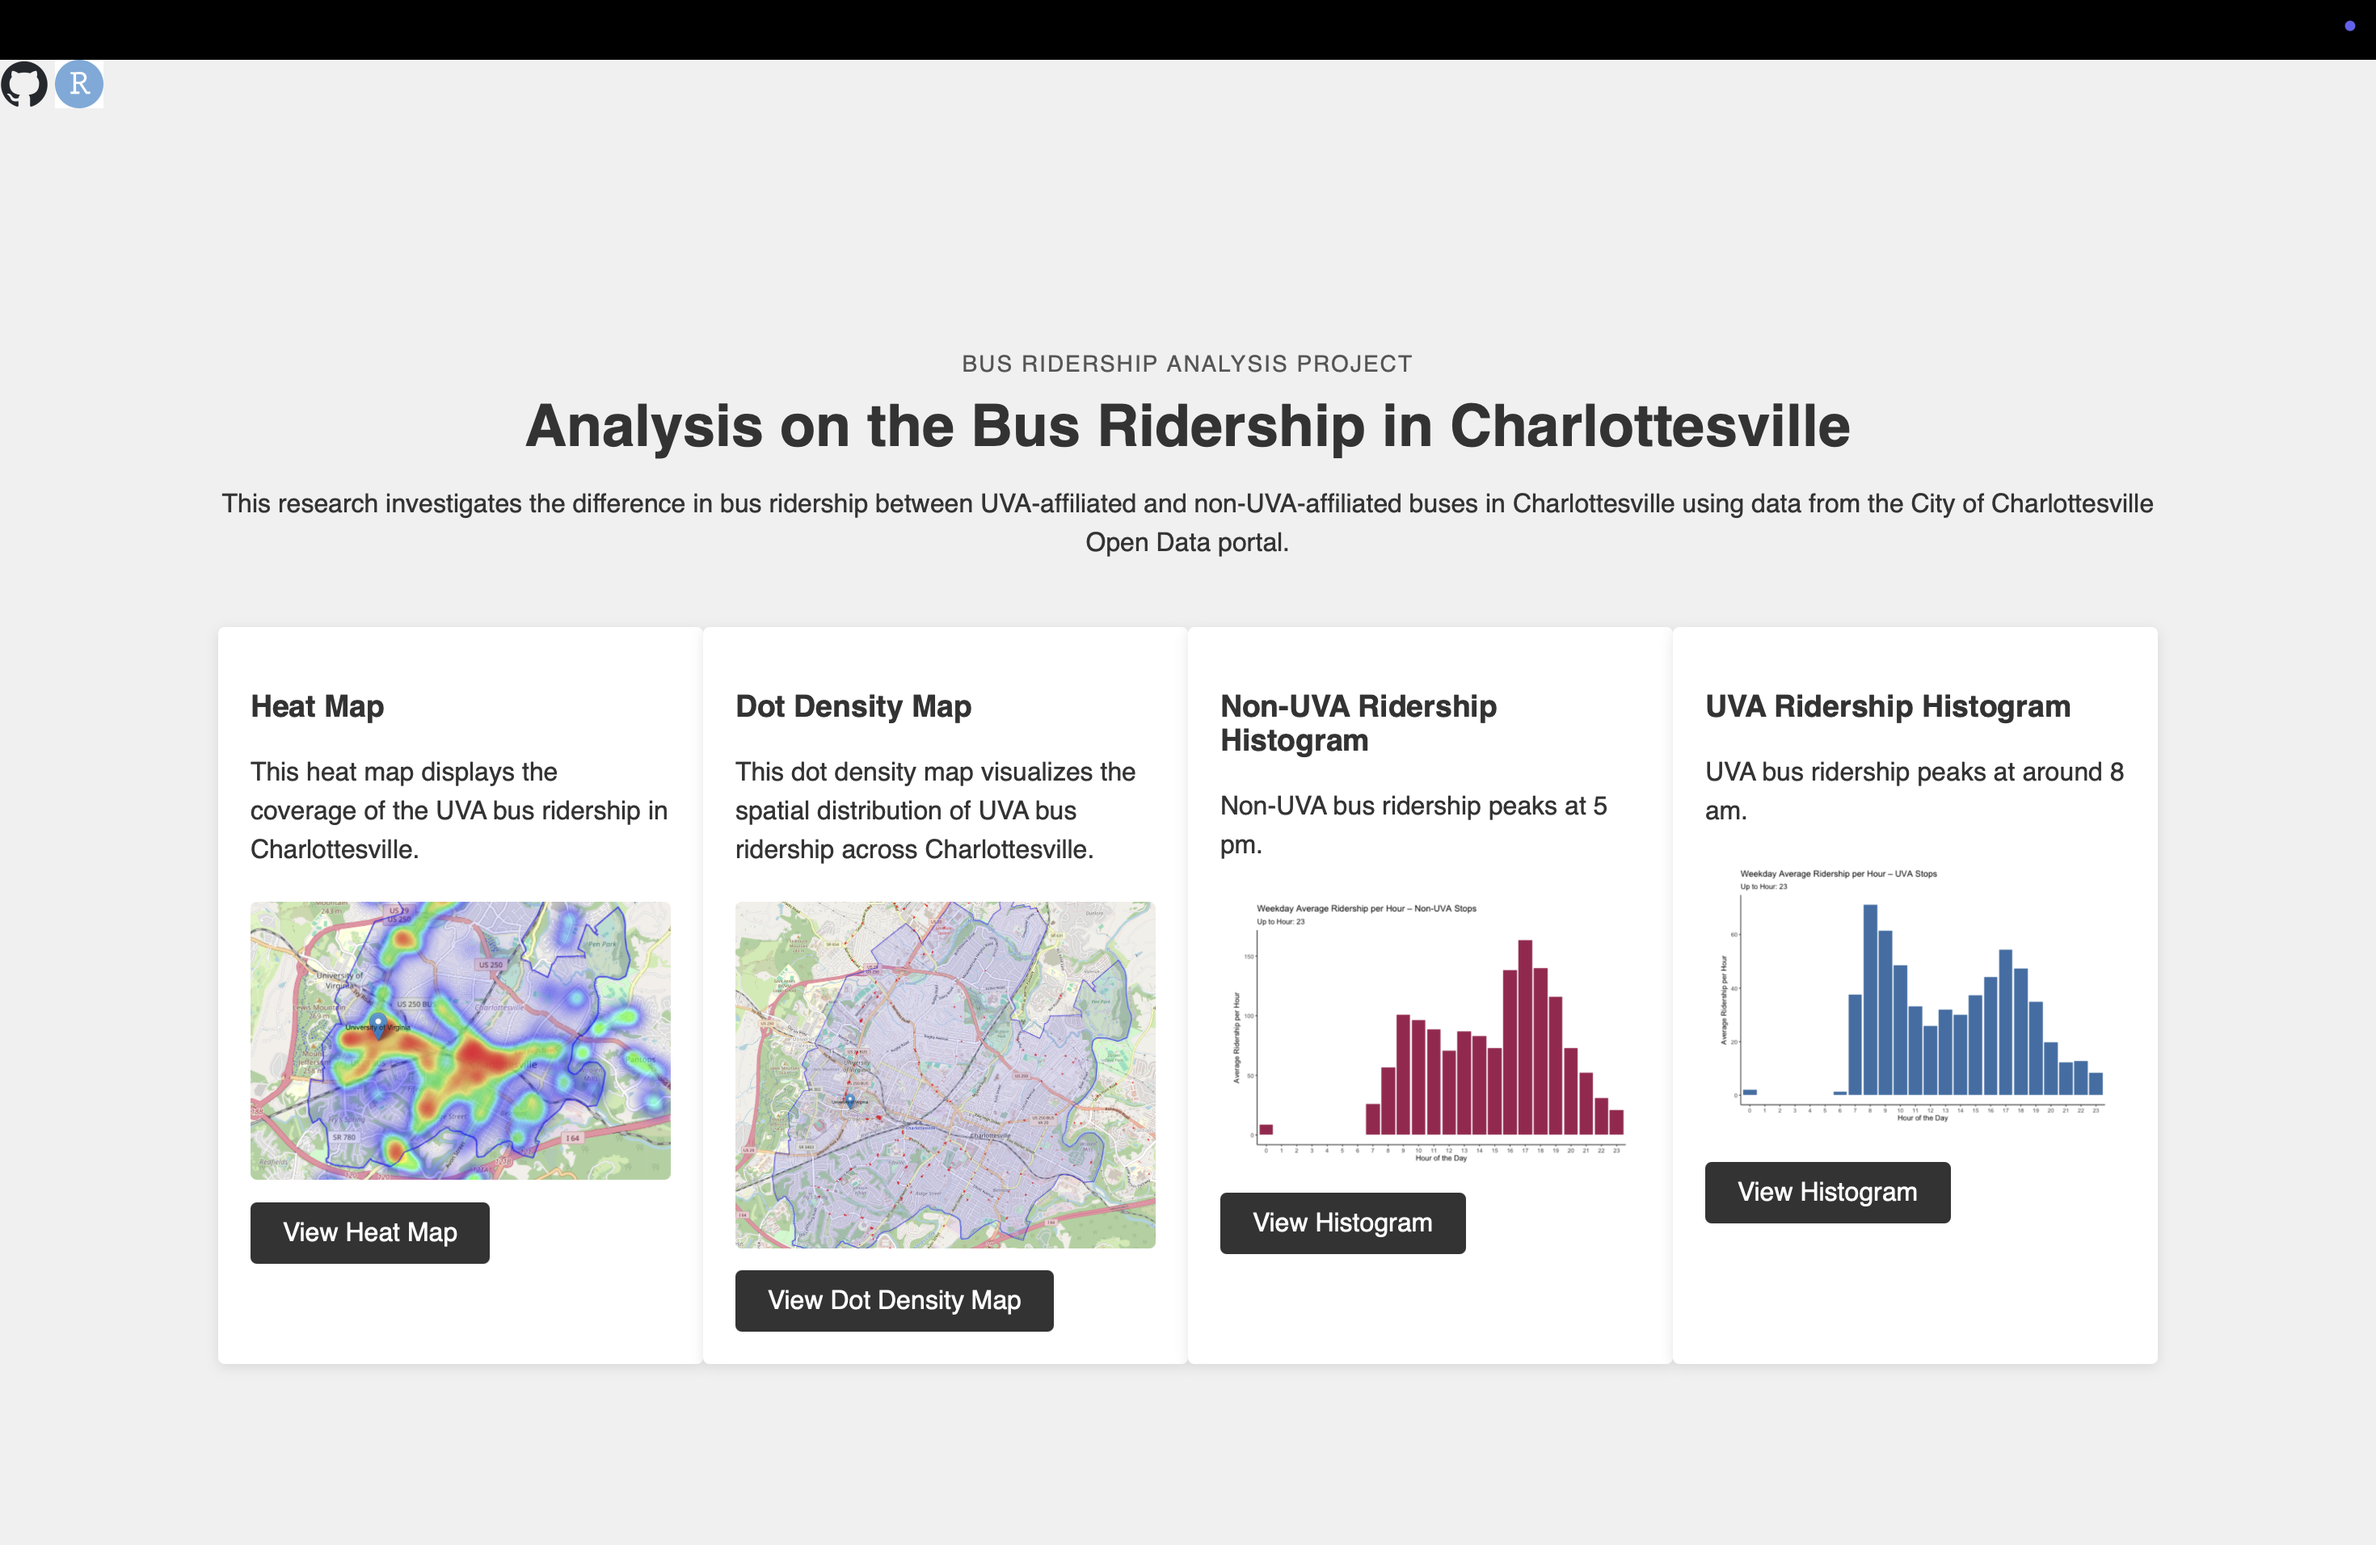
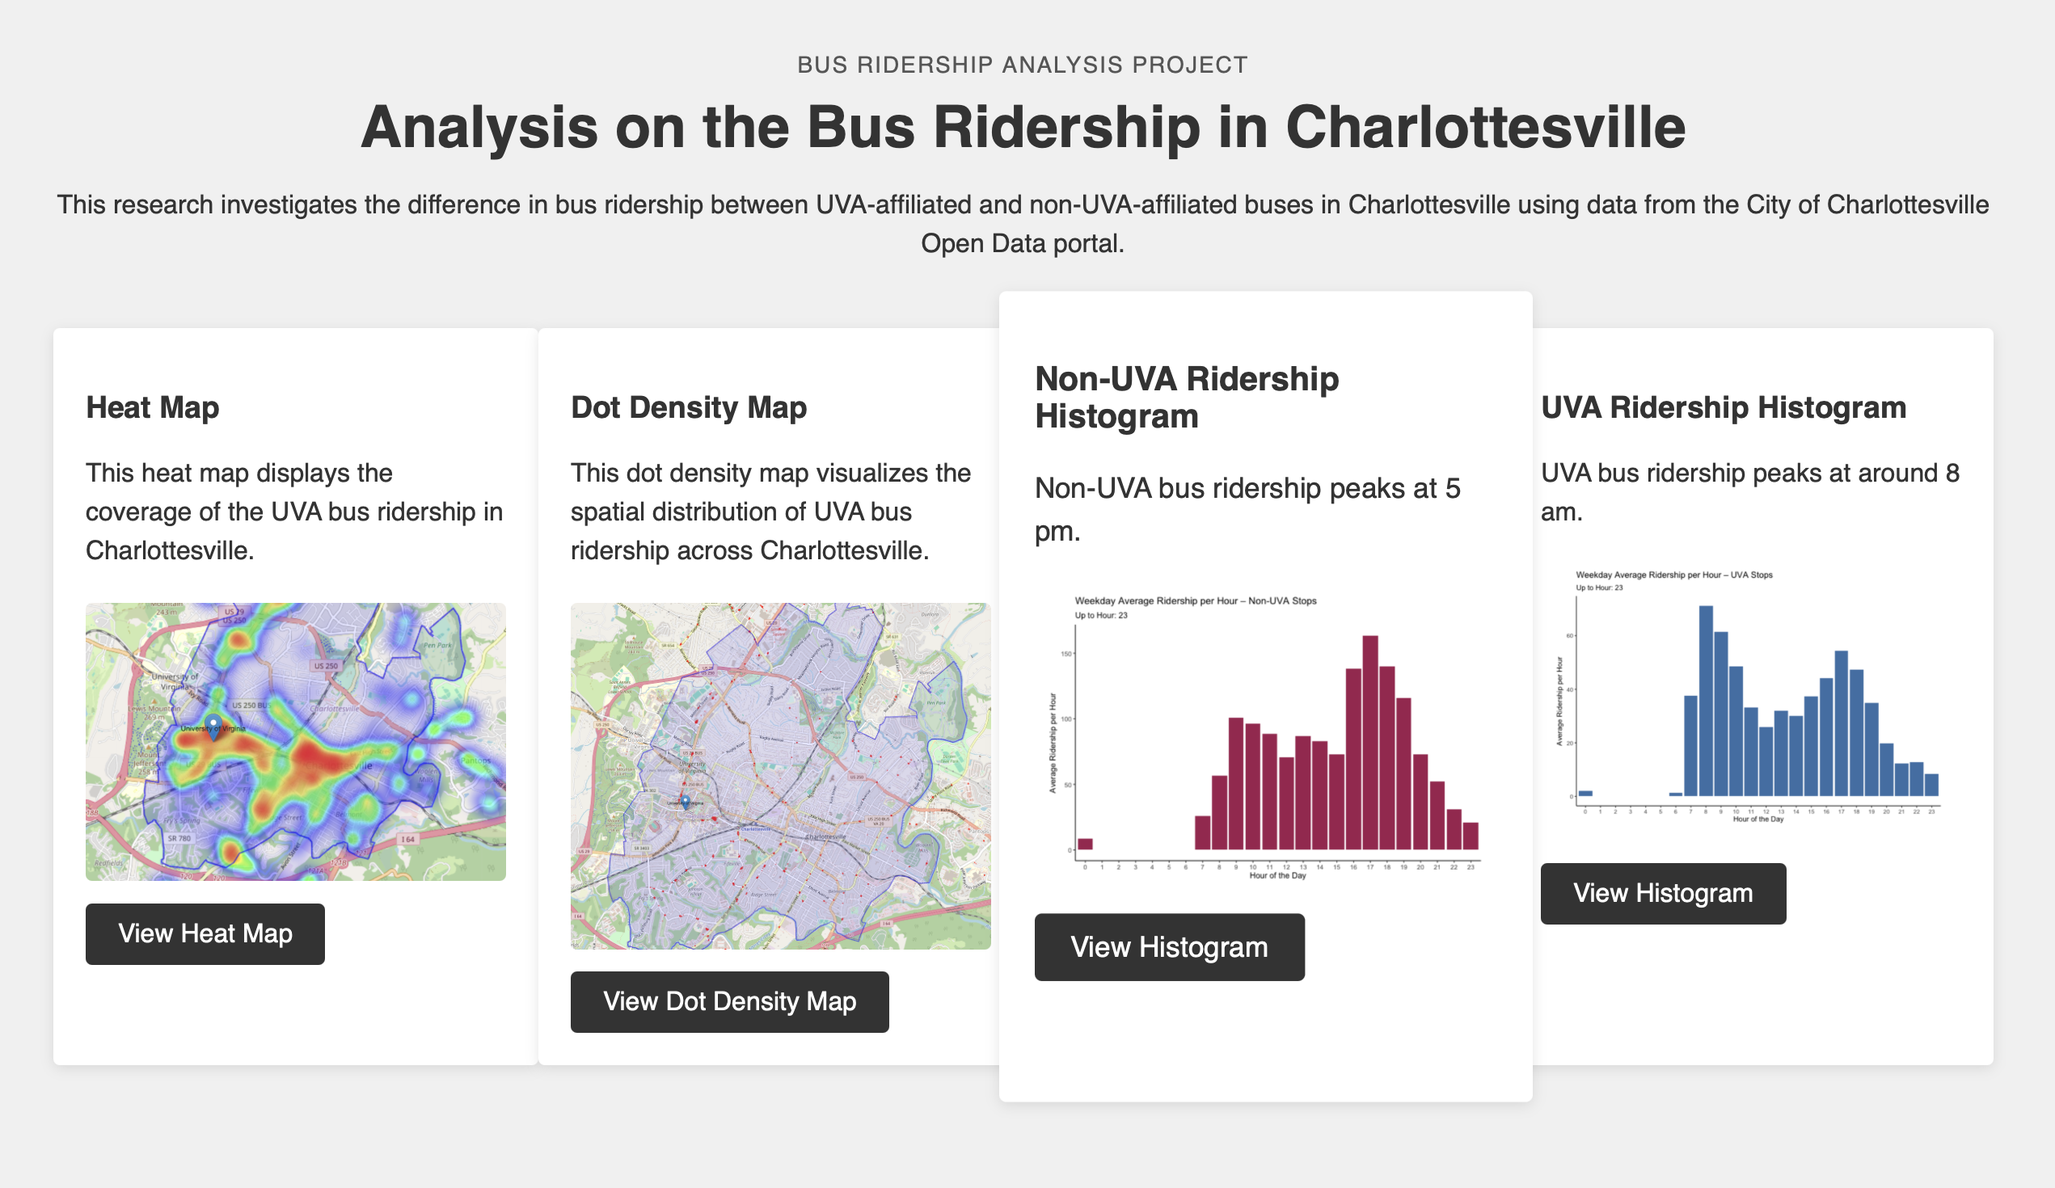
uploading pic

diff --git a/index.html b/index.html
@@ -142,10 +142,12 @@
       border-radius: 20px;
       font-size: 12px;
     }
+    /* Updated image style */
     .card img {
-      width: 100%;
+      width: 80%; /* 20% smaller than 100% */
+      display: block; /* To allow auto margins for centering */
+      margin: 10px auto; /* Centers the image */
       border-radius: 15px;
-      margin-top: 10px;
       cursor: pointer;
     }
     .expand-btn {
@@ -193,6 +195,11 @@
       <div class="service-item">
         <a href="https://github.com/dylanlidailin/Building-an-LLM-from-scratch" target="_blank" style="color: white; flex: 1; display: flex; justify-content: space-between;">
           LLM<span>&rarr;</span>
+        </a>
+      </div>
+      <div class="service-item">
+        <a href="https://github.com/dylanlidailin/ds3022-data-project-1/tree/main" target="_blank" style="color: white; flex: 1; display: flex; justify-content: space-between;">
+          Data Engineering<span>&rarr;</span>
         </a>
       </div>
   </section>
@@ -265,6 +272,10 @@
       <div class="card-tags">
         <span>MySQL</span>
         <span>FastAPI</span>
+        <span>S3</span>
+        <span>Lambda</span>
+        <span>EC2</span>
+        <span>Python</span>
       </div>
       <button class="expand-btn" onclick="toggleDetails('spotify-details')">+ expand</button>
       <div id="spotify-details" style="display:none; margin-top: 30px;">
